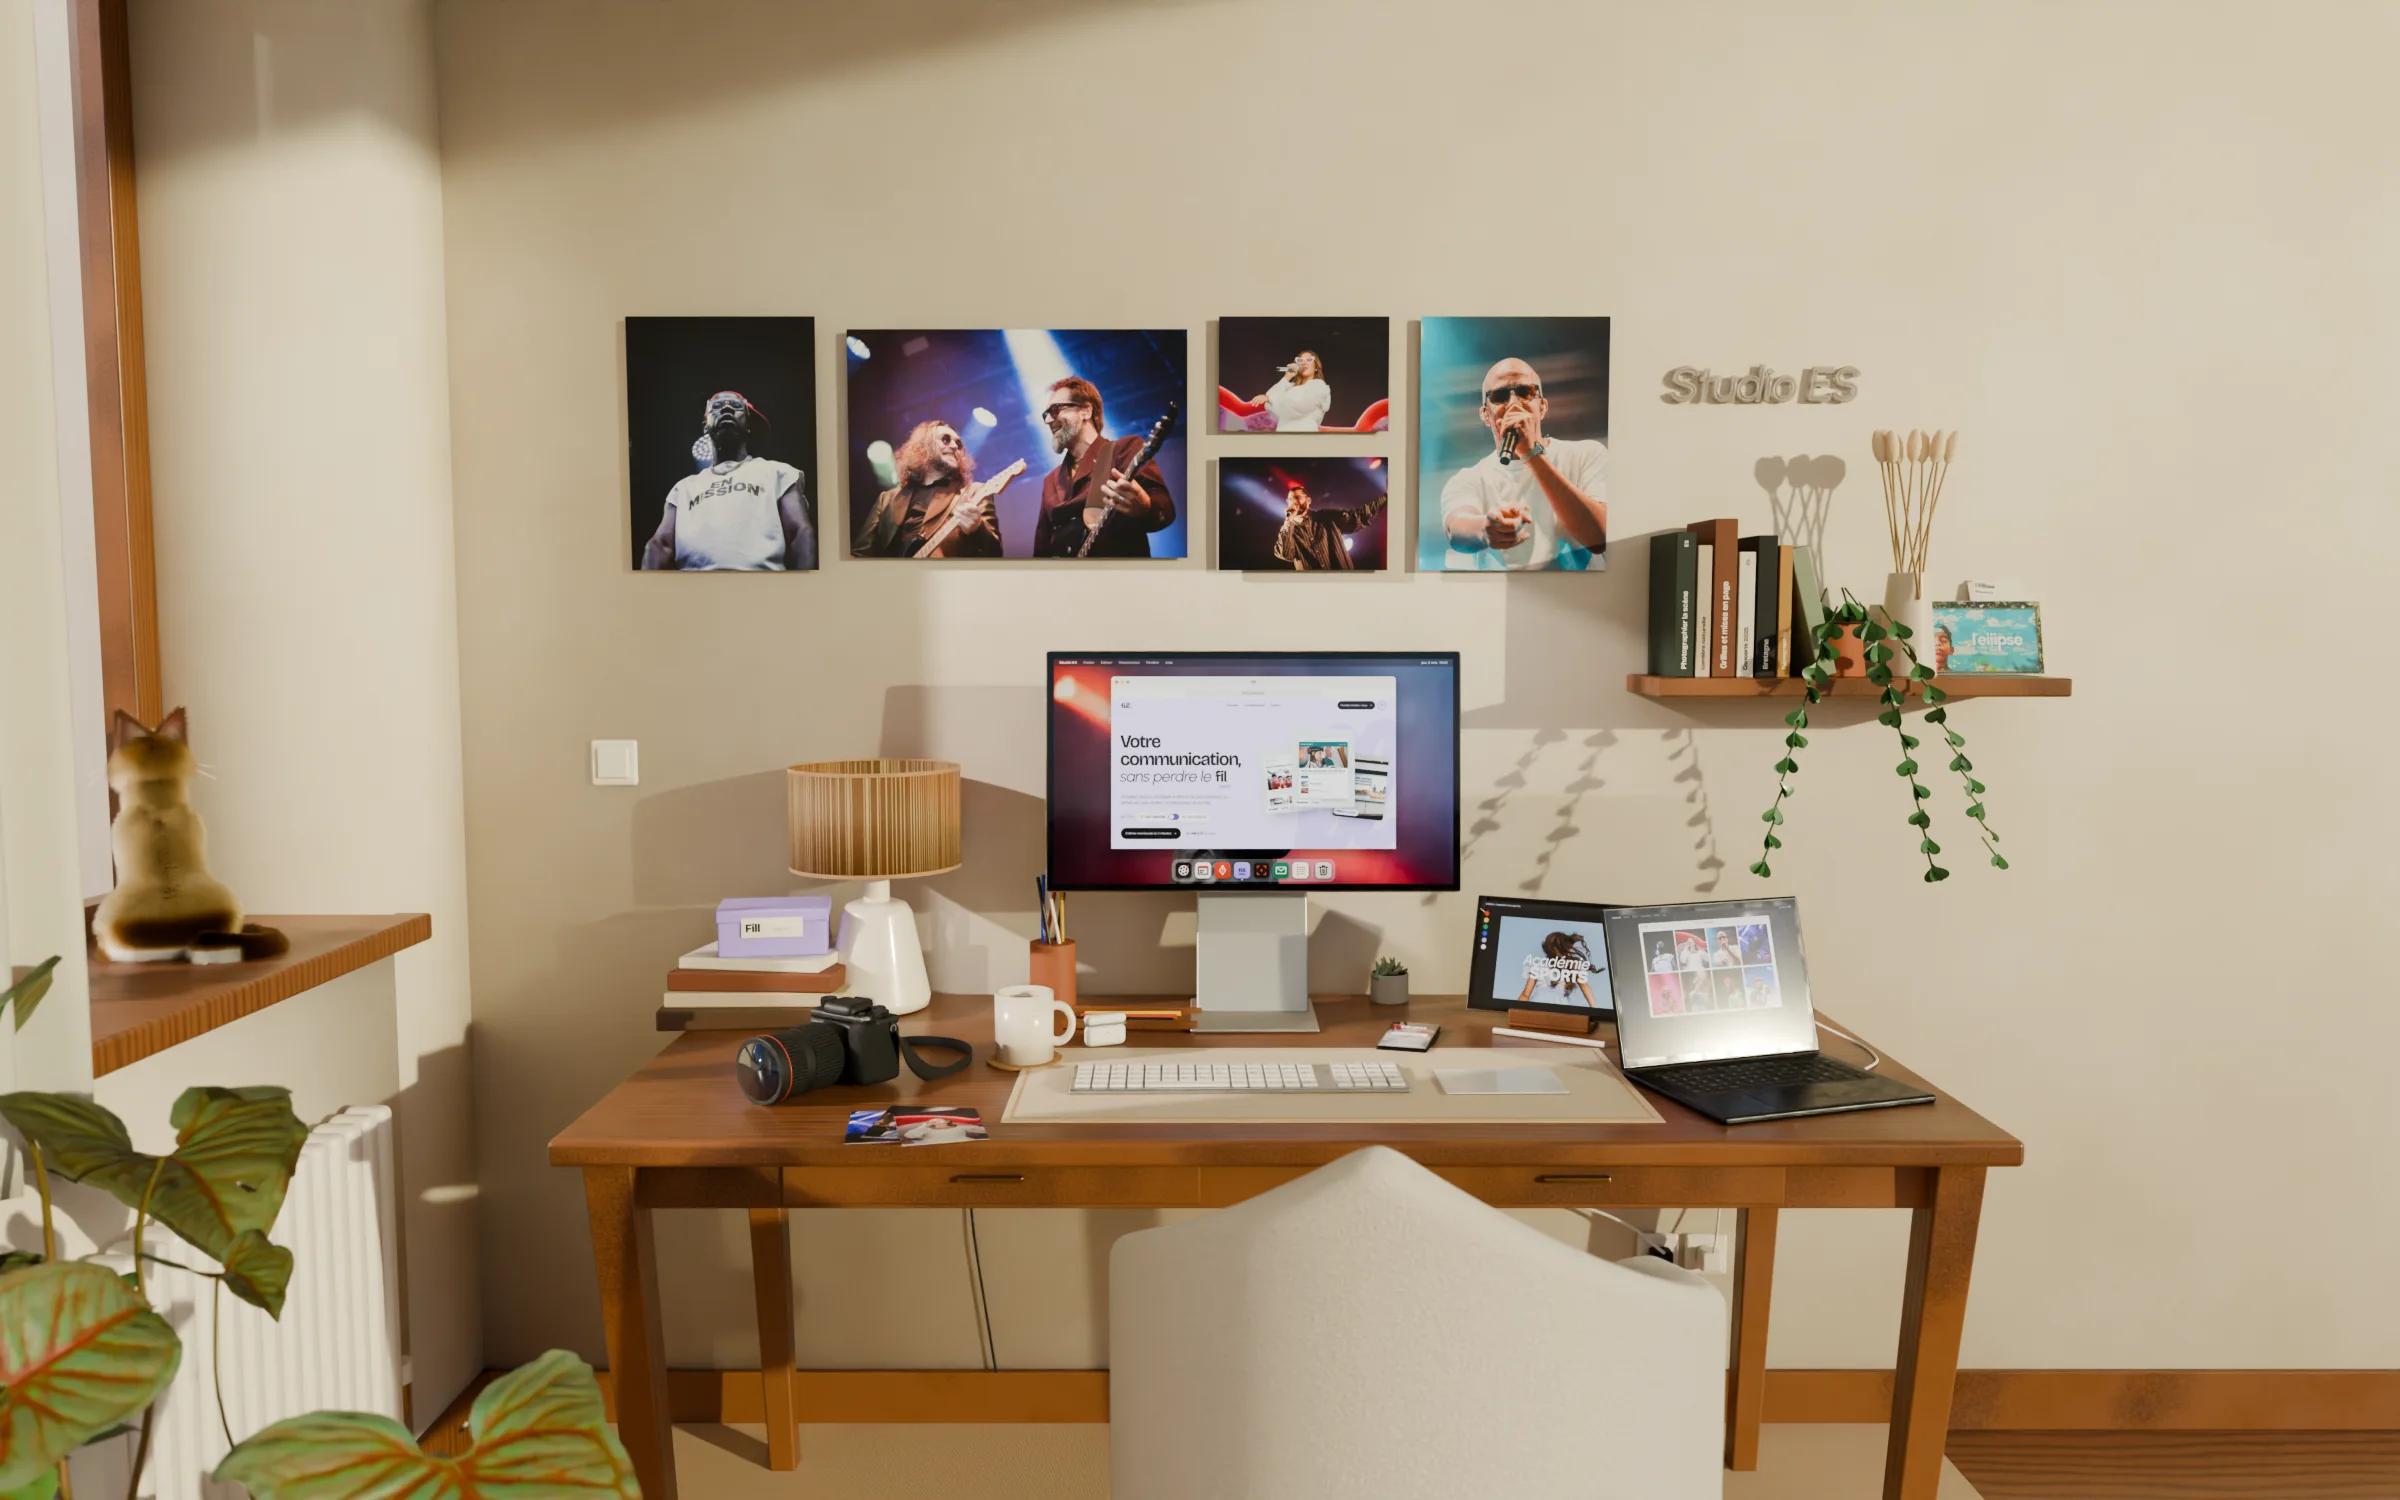
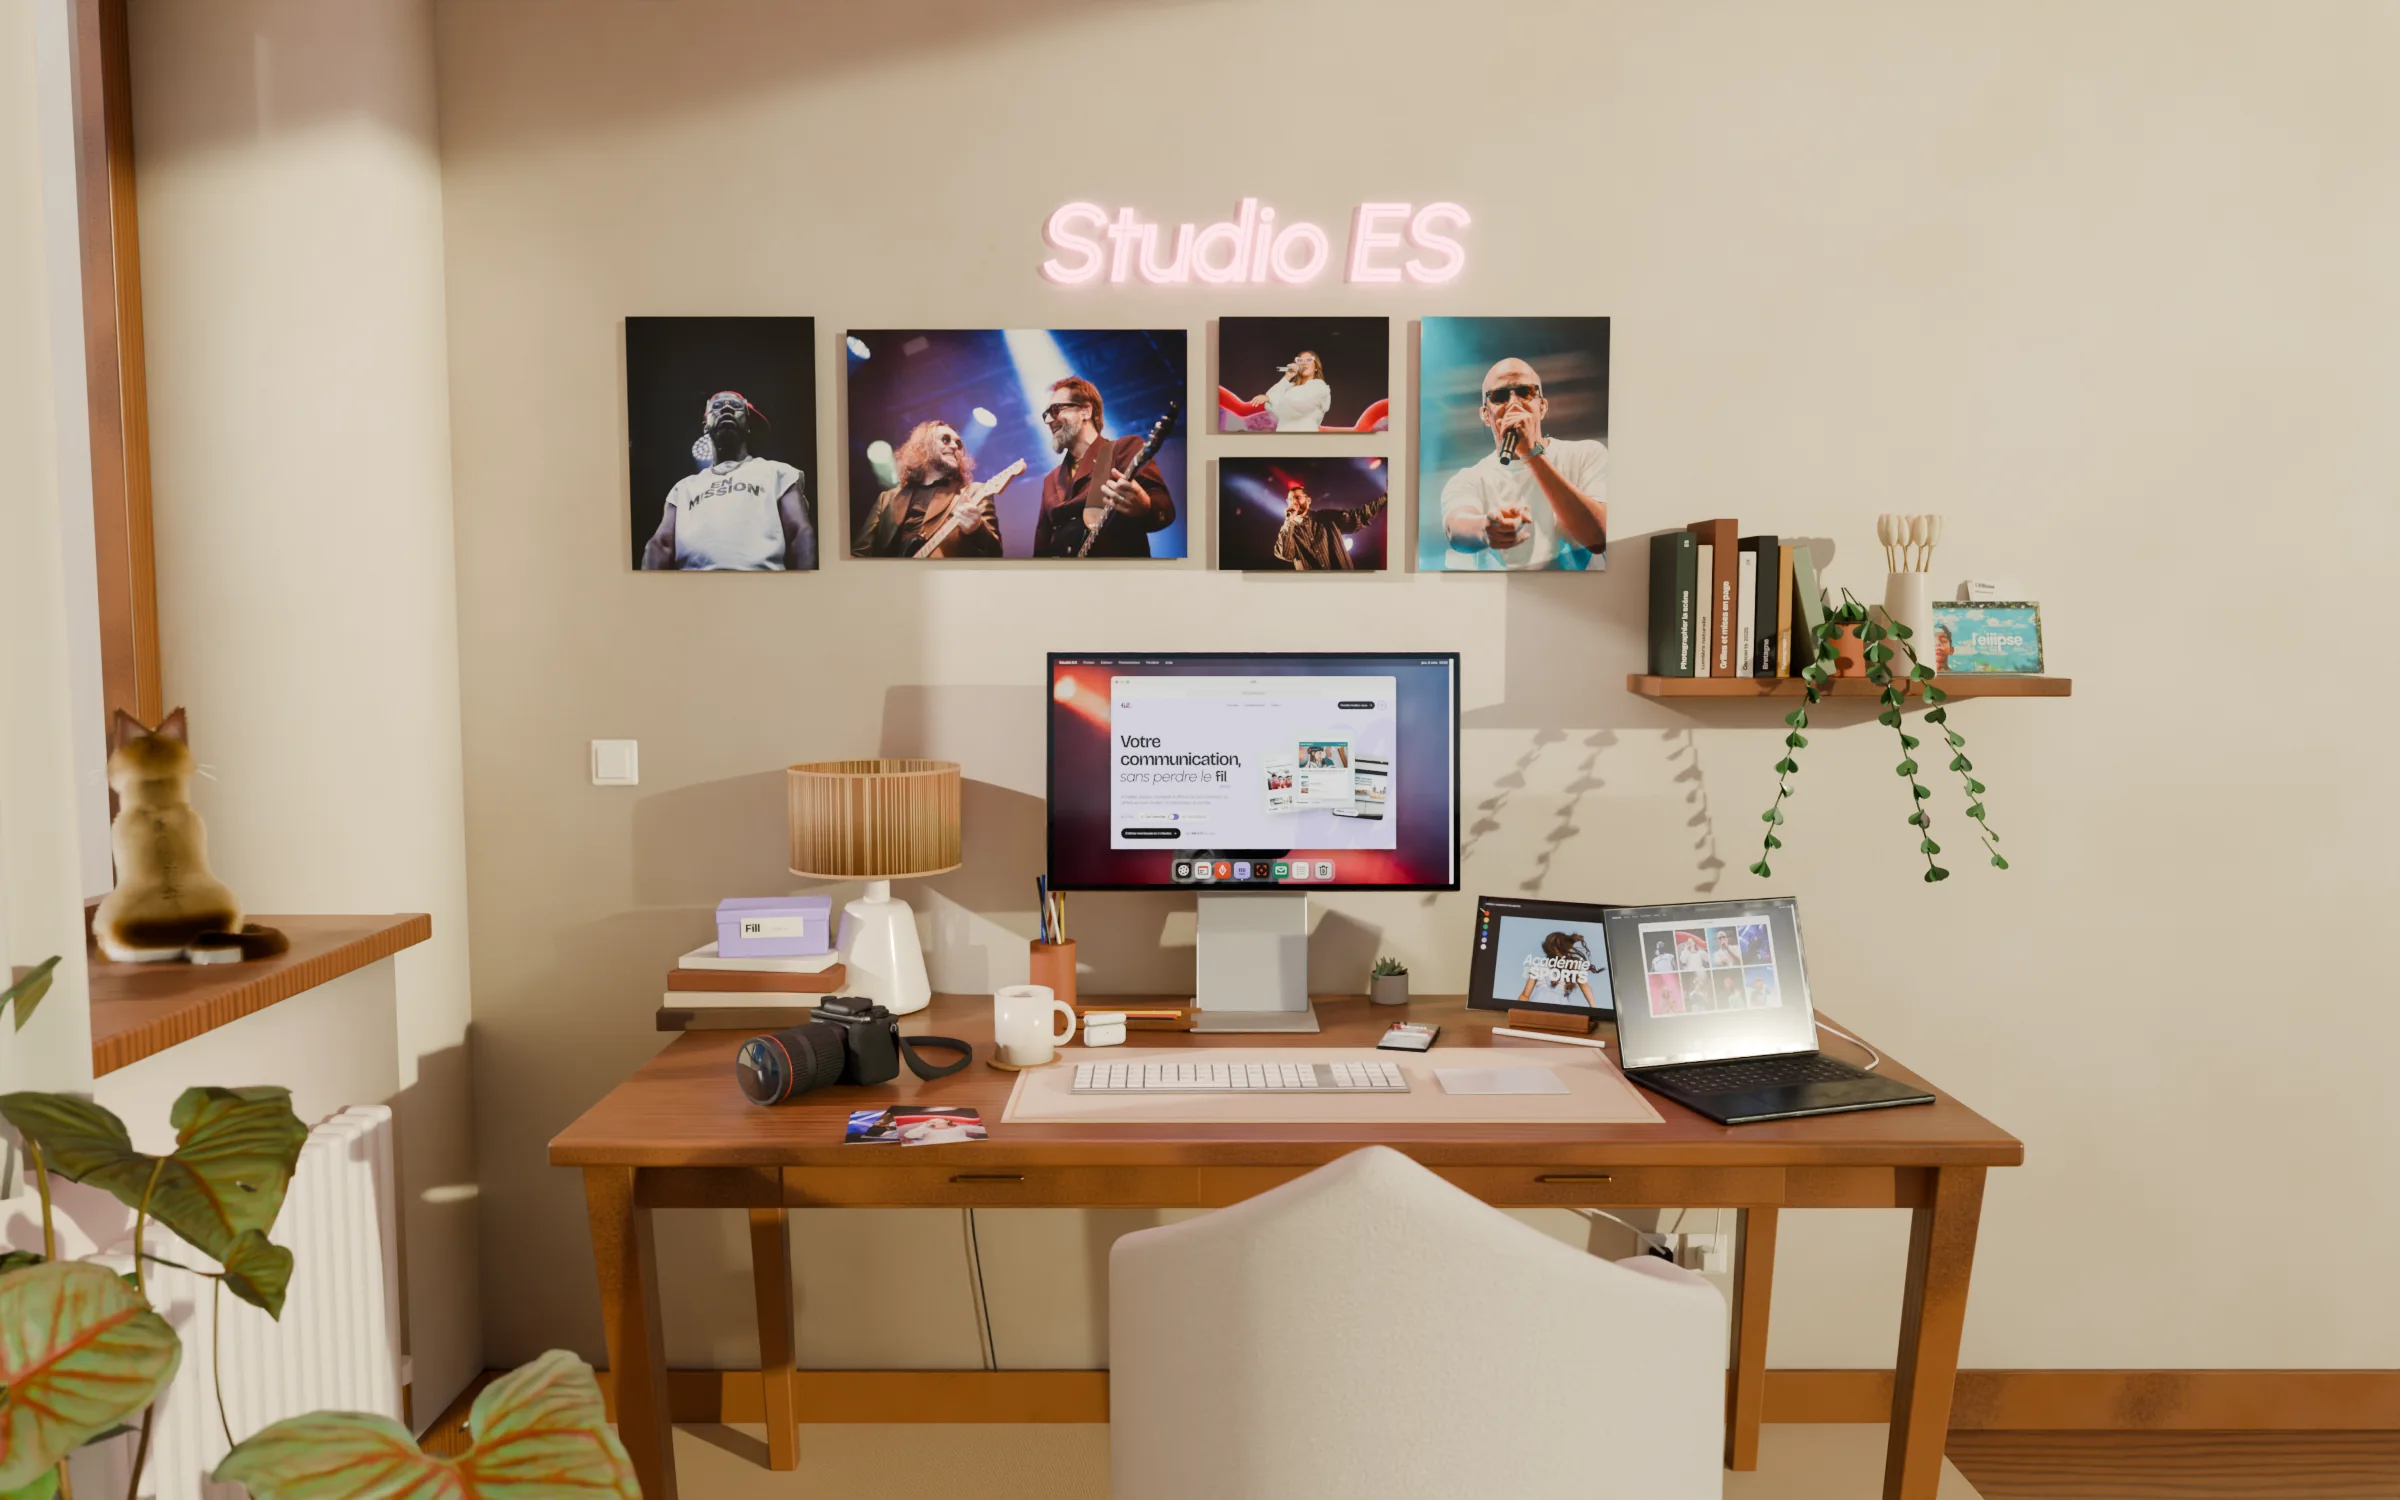
Bannière : vues mobiles nuit et jour avec l'enseigne au-dessus de la galerie, réveil des écrans, banc d'essai avec clics
Proposition prête pour validation, non publiée.

Claude-Session: https://claude.ai/code/session_01C8UkoM7u44CkTFbZnWaAKK

diff --git a/js/atelier.js b/js/atelier.js
@@ -429,7 +429,7 @@ void main(){
           else ne0 = f;
           if (it.m === 2) {
             /* de jour, les écrans se réveillent l'un après l'autre ; le soir ils veillent déjà, seule lumière de la pièce */
-            if (!SOIR) gl.uniform3f(U('uE'), reveil(a, 1.7), reveil(a, 2.1), reveil(a, 1.95));
+            if (!SOIR) { const d0 = MOB ? 1.3 : 1.7; gl.uniform3f(U('uE'), reveil(a, d0), reveil(a, d0 + .4), reveil(a, d0 + .25)); }
             const p = Math.min(1, Math.max(0, (a - 1.35) / 2.2)), e = p < .5 ? 4 * p * p * p : 1 - Math.pow(-2 * p + 2, 3) / 2;
             ec = ech = vI[0] + (1 - vI[0]) * e; cx = tcx = vI[1] + (base.x + glisse - vI[1]) * e; cy = tcy = vI[2] + (base.y - vI[2]) * e;
           }

diff --git a/_src/atelier/banc.py b/_src/atelier/banc.py
@@ -6,7 +6,7 @@ from playwright.sync_api import sync_playwright
 from PIL import Image
 ap = argparse.ArgumentParser(); ap.add_argument('heure', type=int); ap.add_argument('sortie'); ap.add_argument('--mob', action='store_true')
 ap.add_argument('--pas', type=float, default=250); ap.add_argument('--plan', default='4.6,2.4@640,1.2@0'); ap.add_argument('--film', default='')
-ap.add_argument('--url', default='?arrivee&atdbg'); ap.add_argument('--port', default='8768'); ap.add_argument('--rm', action='store_true'); ap.add_argument('--vu', action='store_true'); ap.add_argument('--col', type=int, default=6)
+ap.add_argument('--url', default='?arrivee&atdbg'); ap.add_argument('--port', default='8768'); ap.add_argument('--rm', action='store_true'); ap.add_argument('--vu', action='store_true'); ap.add_argument('--vp', default='1440x810'); ap.add_argument('--col', type=int, default=6)
 A = ap.parse_args()
 HORLOGE = """(h=>{const D=Date,off=new D(2026,10,5,h,20).getTime()-D.now();let vt=0;const q=new Map();let id=0;
 class FD extends D{constructor(...a){if(a.length)super(...a);else super(D.now()+off)}static now(){return D.now()+off}};window.Date=FD;
@@ -19,7 +19,7 @@ try:
     with sync_playwright() as p:
         b = p.chromium.launch(executable_path='/usr/bin/google-chrome', args=['--no-sandbox','--hide-scrollbars','--use-gl=angle','--use-angle=swiftshader','--enable-unsafe-swiftshader','--ignore-gpu-blocklist'])
         kw = dict(reduced_motion='reduce') if A.rm else {}
-        cx = b.new_context(viewport={'width':390,'height':844}, device_scale_factor=2, is_mobile=True, has_touch=True, **kw) if A.mob else b.new_context(viewport={'width':1440,'height':810}, **kw)
+        cx = b.new_context(viewport={'width':390,'height':844}, device_scale_factor=2, is_mobile=True, has_touch=True, **kw) if A.mob else b.new_context(viewport={'width':int(A.vp.split('x')[0]),'height':int(A.vp.split('x')[1])}, **kw)
         cx.add_init_script(HORLOGE % A.heure)
         if A.vu: cx.add_init_script("try{sessionStorage.setItem('at-vu','1')}catch(e){}")
         pg = cx.new_page(); errs = []
@@ -33,6 +33,9 @@ try:
         ims = []; n = 0; y = 0
         if A.film: os.makedirs(A.film, exist_ok=True)
         for seg in A.plan.split(','):
+            if seg[0] in 'cm':  # c:x:y clic, m:x:y survol (fractions de la fenêtre)
+                _, fx, fy = seg.split(':'); vw = pg.viewport_size; X, Y = float(fx) * vw['width'], float(fy) * vw['height']
+                (pg.touchscreen.tap(X, Y) if (A.mob and seg[0] == 'c') else pg.mouse.click(X, Y) if seg[0] == 'c' else pg.mouse.move(X, Y)); continue
             d, _, yf = seg.partition('@'); d = float(d); k = max(1, round(d * 1000 / A.pas)); y0 = y; y1 = float(yf) if yf else y
             for i in range(k):
                 if y1 != y0:
